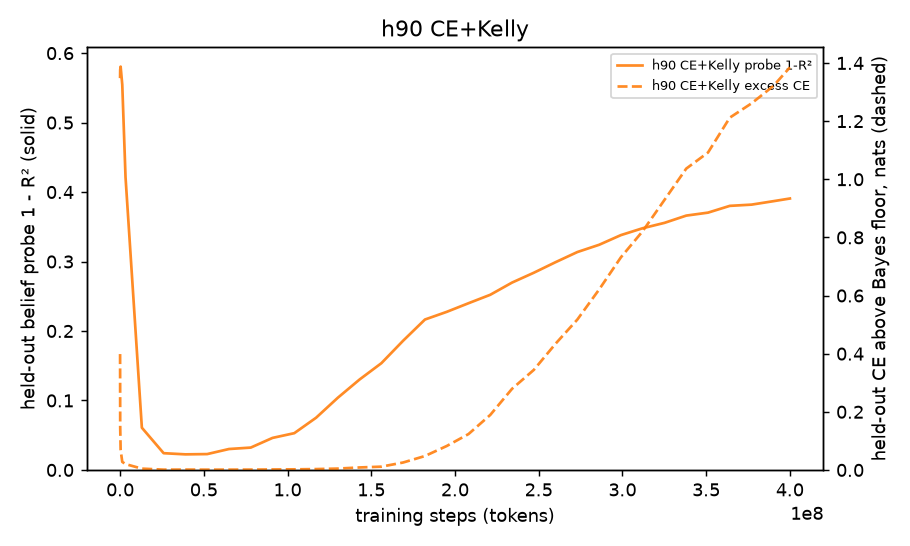
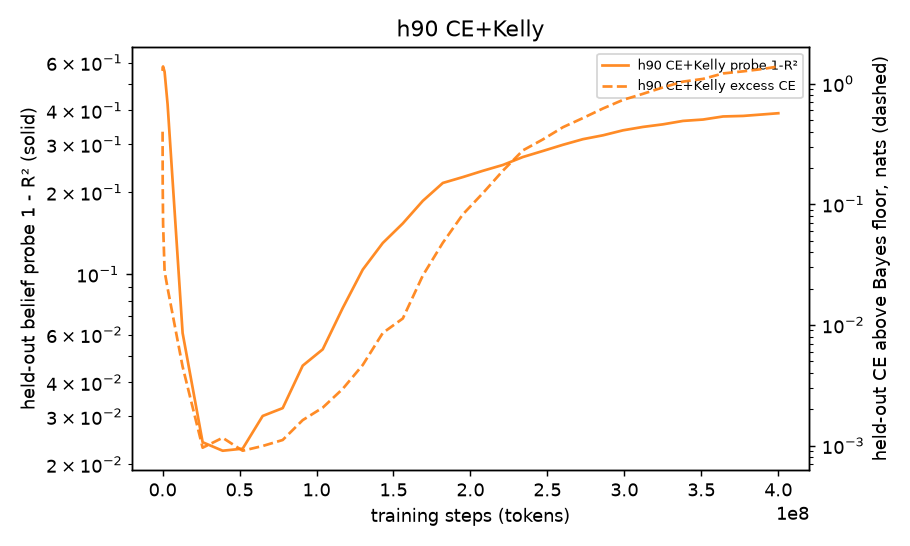
heldout plots: log-scale probe 1-R^2 and excess-CE axes; regenerate curve/ladder PNGs

diff --git a/experiments/pusher_b_jax_2026_10/heldout.py b/experiments/pusher_b_jax_2026_10/heldout.py
@@ -416,8 +416,8 @@ def plot_curves(series: dict[str, list[dict[str, Any]]], path: Path, *, title: s
     ax_probe.set_xlabel("training steps (tokens)")
     ax_probe.set_ylabel("held-out belief probe 1 - R² (solid)")
     ax_loss.set_ylabel("held-out CE above Bayes floor, nats (dashed)")
-    ax_probe.set_ylim(bottom=0)
-    ax_loss.set_ylim(bottom=0)
+    ax_probe.set_yscale("log")
+    ax_loss.set_yscale("log")
     handles = [h for ax in (ax_probe, ax_loss) for h in ax.get_legend_handles_labels()[0]]
     ax_probe.legend(handles=handles, fontsize=7, loc="upper right")
     ax_probe.set_title(title)
